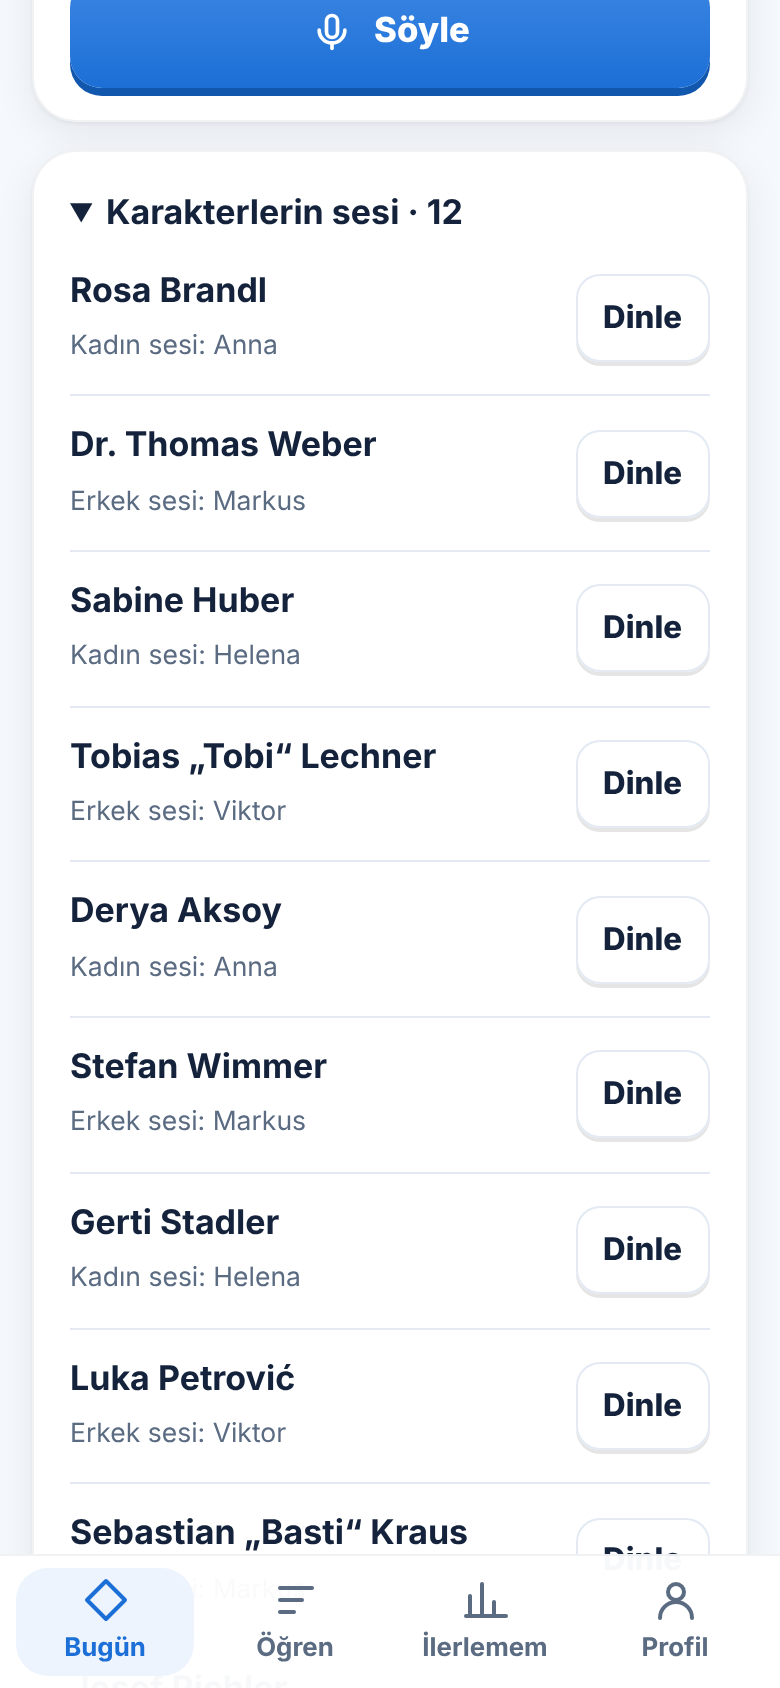
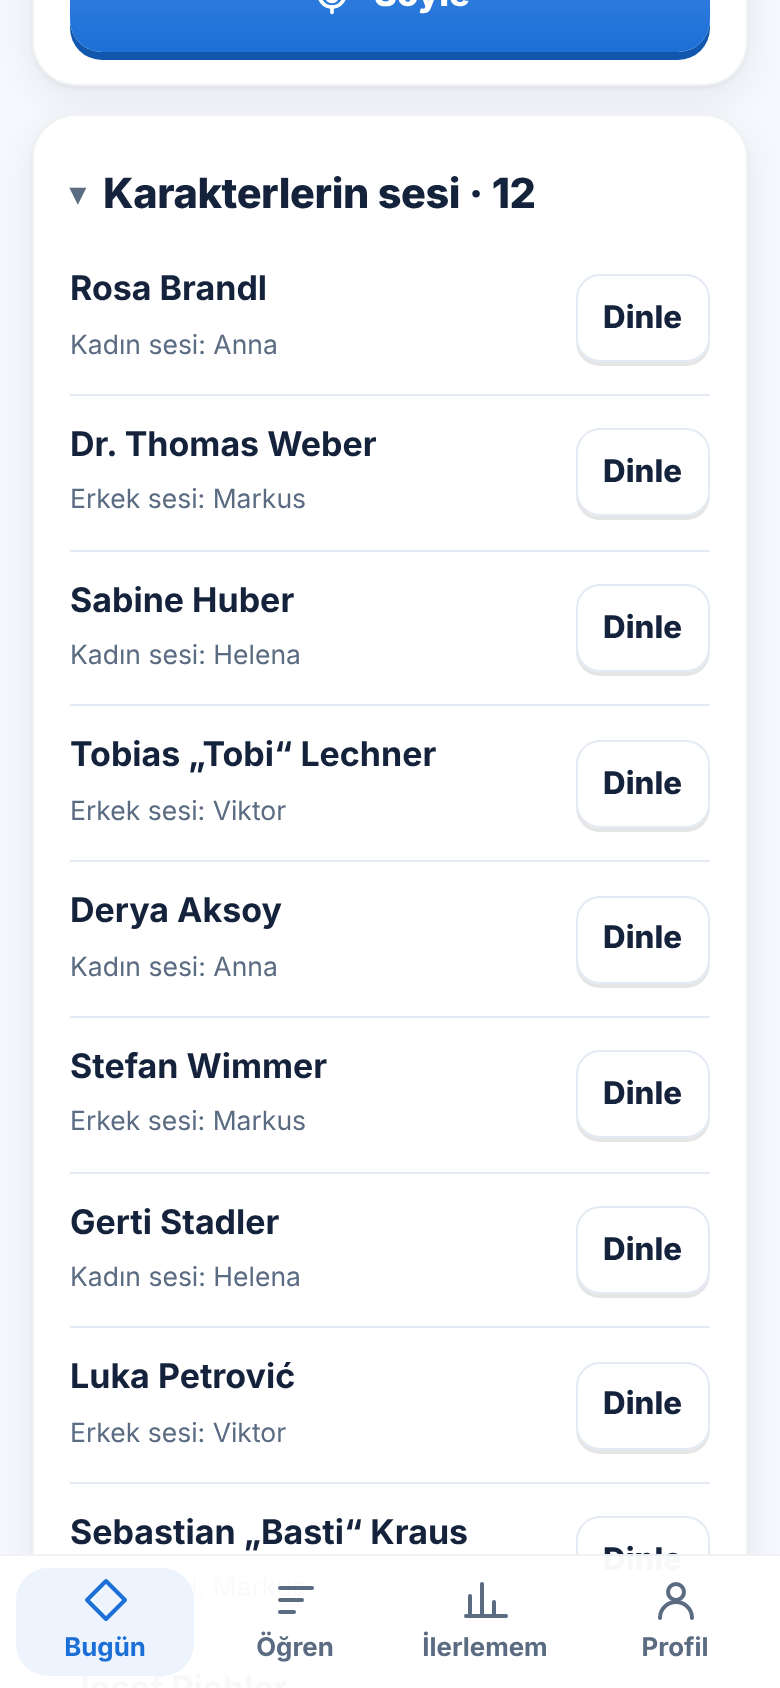
v2: ses ekranı — açılır başlık 44 pt ve h2; 12 karakterin hepsinde cinsiyet denetimi; ses adında parantez yok (inceleme #124 P1-1, P2)
Claude-Session: https://claude.ai/code/session_016gishG3oMjbKiLi4Fij94B

diff --git a/web/src/screens/SesDeneme.tsx b/web/src/screens/SesDeneme.tsx
@@ -17,7 +17,7 @@ function SesSatiri({ s }: { s: Ses }) {
   const dinle = (yavas: boolean) => void speak(ORNEK, "de", yavas ? "slow" : "normal", true, { ses: s, pitch: 1 });
   return (
     <li class="row ses-satir" style={{ flexWrap: "nowrap" }} data-test="ses" data-ad={s.name}>
-      <span class="grow" style={{ minWidth: 0 }}><b>{s.name}</b>{sesKalitesi(s) >= 2 && <span class="chip" style={{ marginLeft: 6 }}>gelişmiş</span>}</span>
+      <span class="grow" style={{ minWidth: 0 }}><b>{s.name.replace(/\s*\(.*\)$/, "")}</b>{sesKalitesi(s) >= 2 && <span class="chip" style={{ marginLeft: 6 }}>gelişmiş</span>}</span>
       <button class="btn sm" onClick={() => dinle(false)} data-test="ses-dinle">Dinle</button>
       <button class="btn sm ghost" onClick={() => dinle(true)} data-test="ses-yavas">Yavaş</button>
     </li>
@@ -31,7 +31,7 @@ export function SesDeneme() {
     // iOS/Chrome ses listesini geç doldurur
     const yenile = () => setSesler(cihazSesleri());
     if (ttsAvailable()) { speechSynthesis.addEventListener?.("voiceschanged", yenile); setTimeout(yenile, 400); }
-    void loadWorld().then((w) => w && setKarakter(w.characters.map((c) => ({ id: c.id, name: c.name, cinsiyet: (c as { ses?: { cinsiyet?: string } }).ses?.cinsiyet }))));
+    void loadWorld().then((w) => w && setKarakter(w.characters.map((c) => ({ id: c.id, name: c.name, cinsiyet: c.ses?.cinsiyet }))));
     return () => { if (ttsAvailable()) speechSynthesis.removeEventListener?.("voiceschanged", yenile); };
   }, []);
   const h = havuzlar(sesler);
@@ -53,7 +53,7 @@ export function SesDeneme() {
       </section>
       <MikrofonDeneme />
       {karakter.length > 0 && <details class="card stack" data-test="karakter-sesleri">
-        <summary data-test="karakter-ac"><b>Karakterlerin sesi · {karakter.length}</b></summary>
+        <summary class="ac-baslik" data-test="karakter-ac"><h2>Karakterlerin sesi · {karakter.length}</h2></summary>
         <ul class="list">{karakter.map((c) => { const a = karakterSesi(c.id); return (
           <li class="row" style={{ flexWrap: "nowrap" }} data-test="karakter-ses" data-id={c.id} data-ses={a?.ses?.name ?? ""} data-pitch={a?.pitch ?? 1}>
             <span class="grow" style={{ minWidth: 0 }}><b>{c.name}</b><br /><span class="tiny muted" data-test="karakter-ses-ad">{!a?.ses || a.cinsiyetYok ? "Bu cihazda uygun ses yok" : `${c.cinsiyet === "erkek" ? "Erkek" : c.cinsiyet === "kadin" ? "Kadın" : "Karakter"} sesi: ${a.ses.name.replace(/\s*\(.*\)$/, "")}`}</span></span>

diff --git a/web/src/styles.css b/web/src/styles.css
@@ -667,3 +667,9 @@ svg.sandik { overflow: visible; }
 /* B16 hızlı şerit bandı: çıkış düğmesi ≥ 44 pt (inceleme #113 P1-5) */
 .bilgi-bant { display: flex; flex-wrap: wrap; align-items: center; gap: 4px 12px; margin: 0; padding: 8px 14px; border-radius: 14px; background: var(--himmel-2); color: var(--ink); }
 .bilgi-bant .linkbtn { min-height: 44px; padding: 0 4px; }
+/* açılır bölüm başlığı: bütün satır dokunulur, en az 44 pt (inceleme #124 P1-1) */
+summary.ac-baslik { display: flex; align-items: center; gap: 8px; min-height: 44px; cursor: pointer; list-style: none; }
+summary.ac-baslik::-webkit-details-marker { display: none; }
+summary.ac-baslik::before { content: "▸"; color: var(--muted); transition: transform var(--t); }
+details[open] > summary.ac-baslik::before { transform: rotate(90deg); }
+summary.ac-baslik h2 { margin: 0; }
